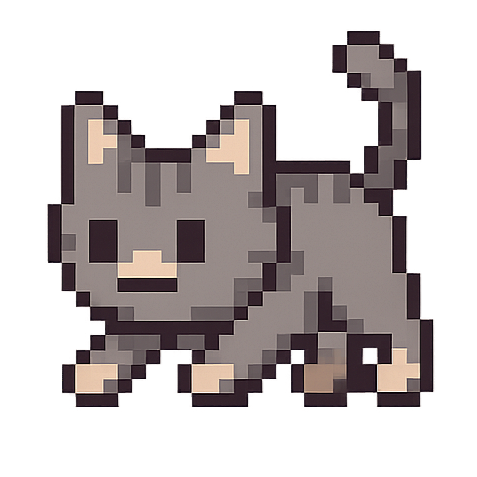
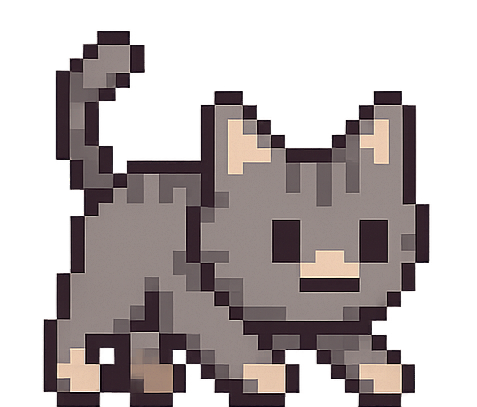
Implement virtual resolution and player animation in Kucing Catch Game

diff --git a/tempCodeRunnerFile.py b/tempCodeRunnerFile.py
@@ -24,7 +24,7 @@ lebar_pemain = 80
 tinggi_pemain = 80
 
 # --- Ground / Tanah ---
-ground_height = 100
+ground_height = 80
 ground_rect = pygame.Rect(0, VIRTUAL_HEIGHT - ground_height, VIRTUAL_WIDTH, ground_height)
 
 # Set player position based on ground
